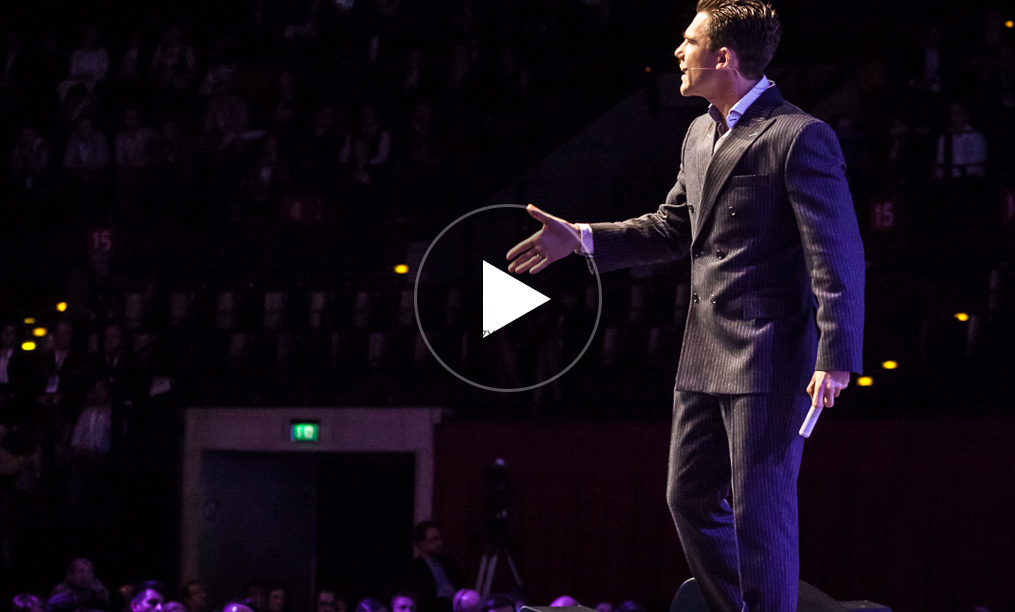
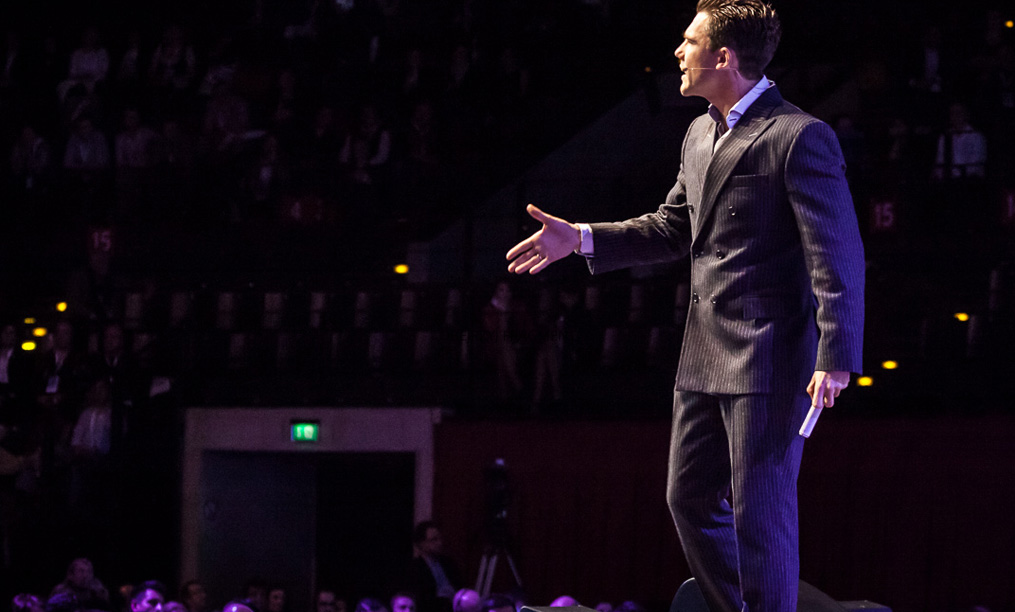
change

diff --git a/film.html b/film.html
@@ -88,24 +88,30 @@ License: Custom
 
 <!-- BEGIN MOVIE -->
 <section id="movie">
-	<div class="container">
 		
 		<div class="movie">
 			<a href="#"><img src="assets/img/video/movie.jpg" style="width:100%;" class="img-responsive" alt=""></a>
 			
-			<div class="buttonBuyDiv">
-				<a href="#" class="buttonBuy">
-					<span class="iconOk"></span>
-					<span class="details">
-						KUP TERAZ
-						<span class="price">34,00 zł</span>
-						(40 zł z VAT)
-					</span>
-				</a>
+			<a href="#" class="play"></a>
+			
+			<div class="container">
+				
+				<div class="buttonBuyDiv">
+					<a href="#" class="buttonBuy">
+						<span class="iconOk"></span>
+						<span class="details">
+							KUP TERAZ
+							<span class="price">34,00 zł</span>
+							(40 zł z VAT)
+						</span>
+					</a>
+				</div>
+				
 			</div>
 			
 		</div>
 		
+	<div class="container">
 		<div class="row">
 			<div class="col-md-6 col-sm-6 col-xs-12 m-t-20 space-mobile">
 				<h2>Pole relacji</h2>
@@ -119,8 +125,8 @@ License: Custom
 				<p><strong>Dostawa:</strong> natychmiast (produkt online)</p>
 			</div>
 		</div>
-		
 	</div>
+	
 </section>
 <!-- END MOVIE -->
 
